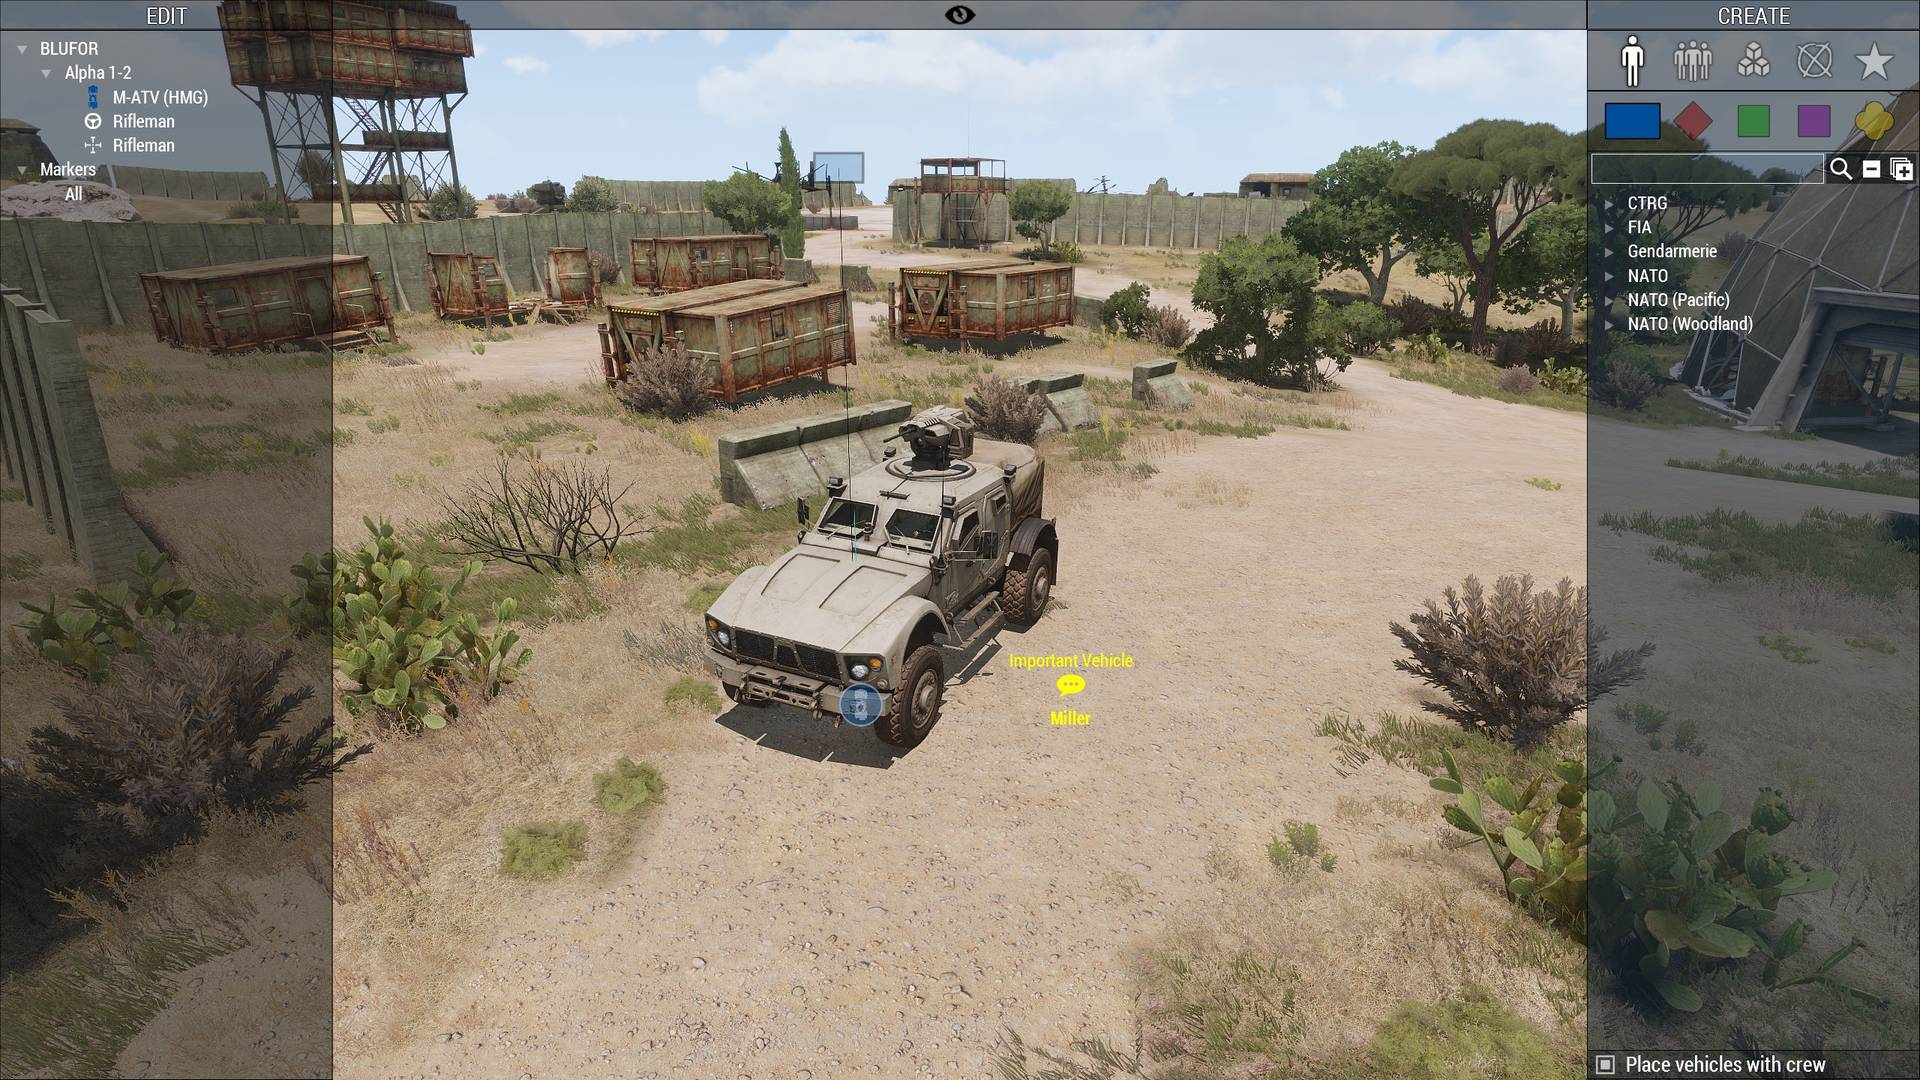
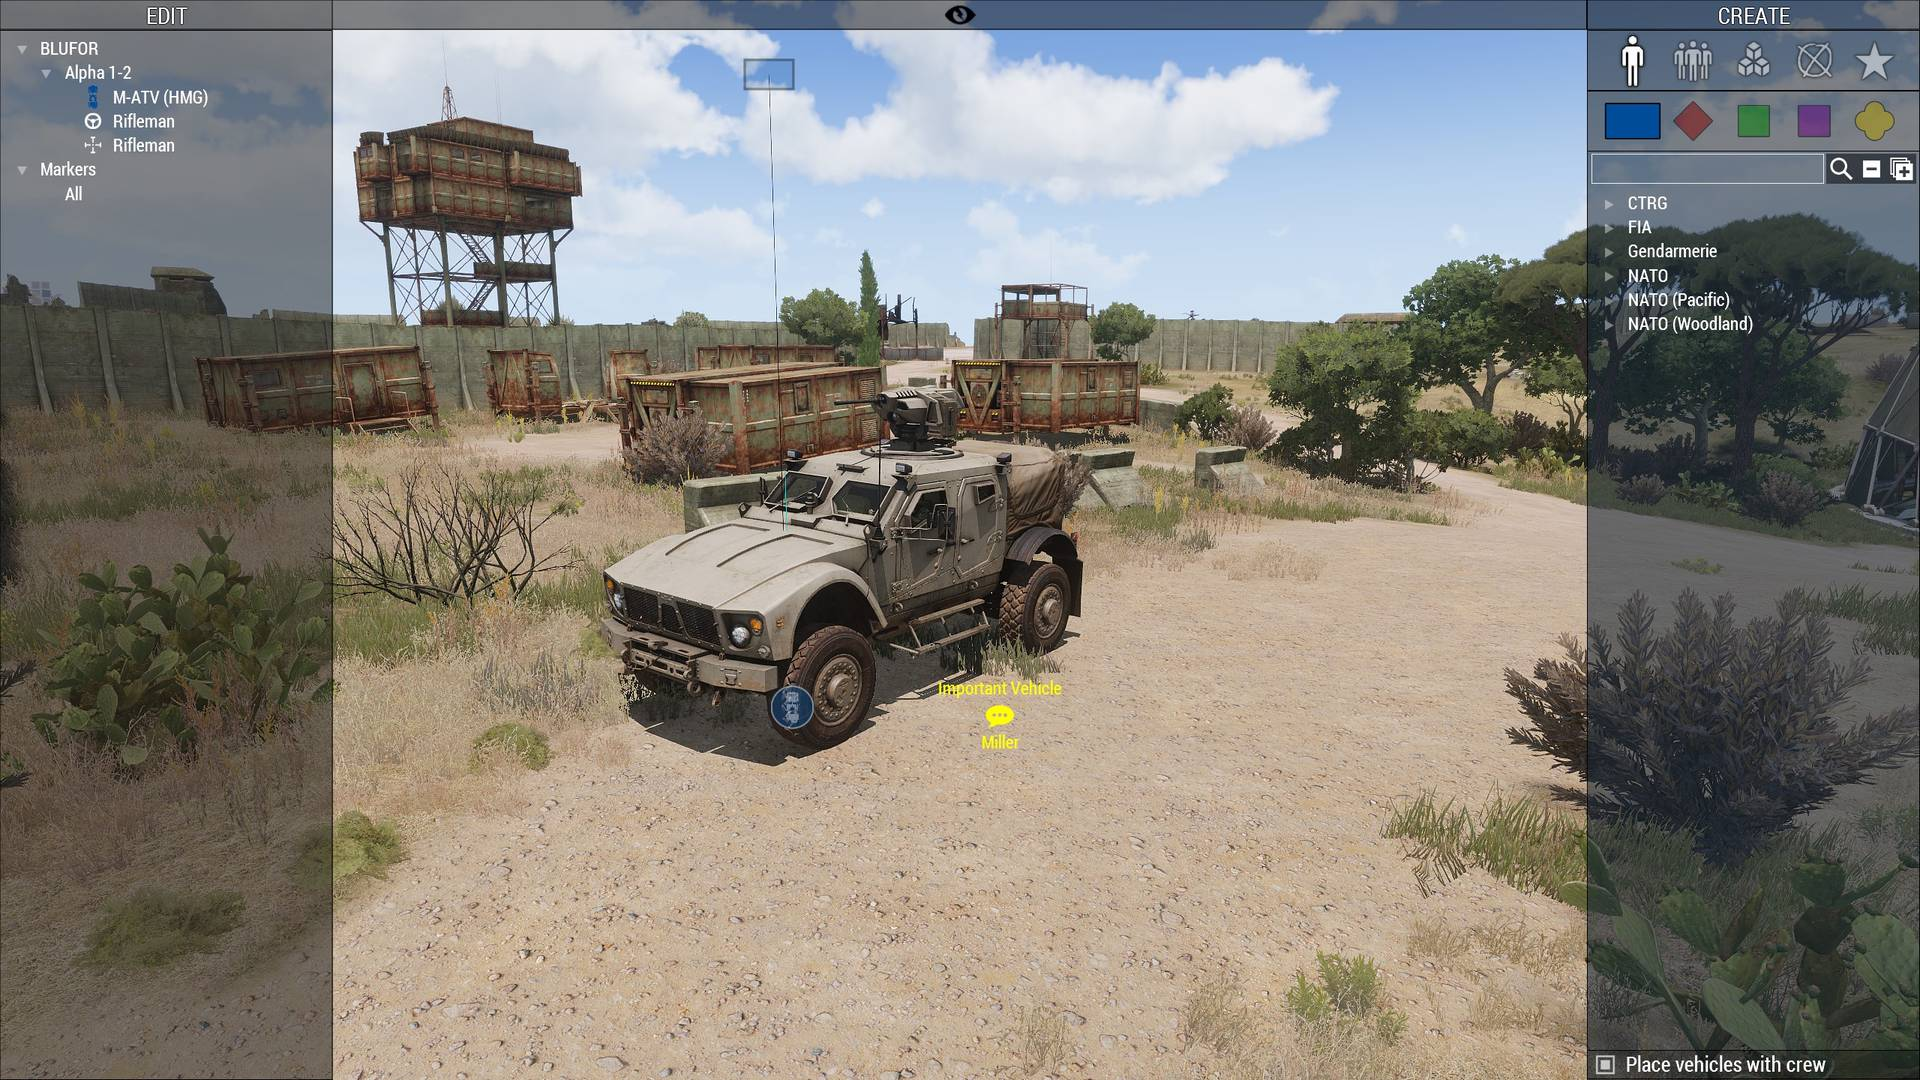
Update comments header image

diff --git a/addons/tour/CfgFeatures.hpp b/addons/tour/CfgFeatures.hpp
@@ -37,7 +37,7 @@ class GVAR(features) {
         title = "$STR_3DEN_Comment_textPlural";
         description = CSTRING(Comments_Description);
         picture = QPATHTOF(features\comments\header.jpg);
-        focus[] = {0.36, 0.37, 0.24, 0.34};
+        focus[] = {0.30, 0.34, 0.28, 0.38};
         class Placing {
             title = CSTRING(Comments_Placing);
             text = CSTRING(Comments_Placing_Text);
